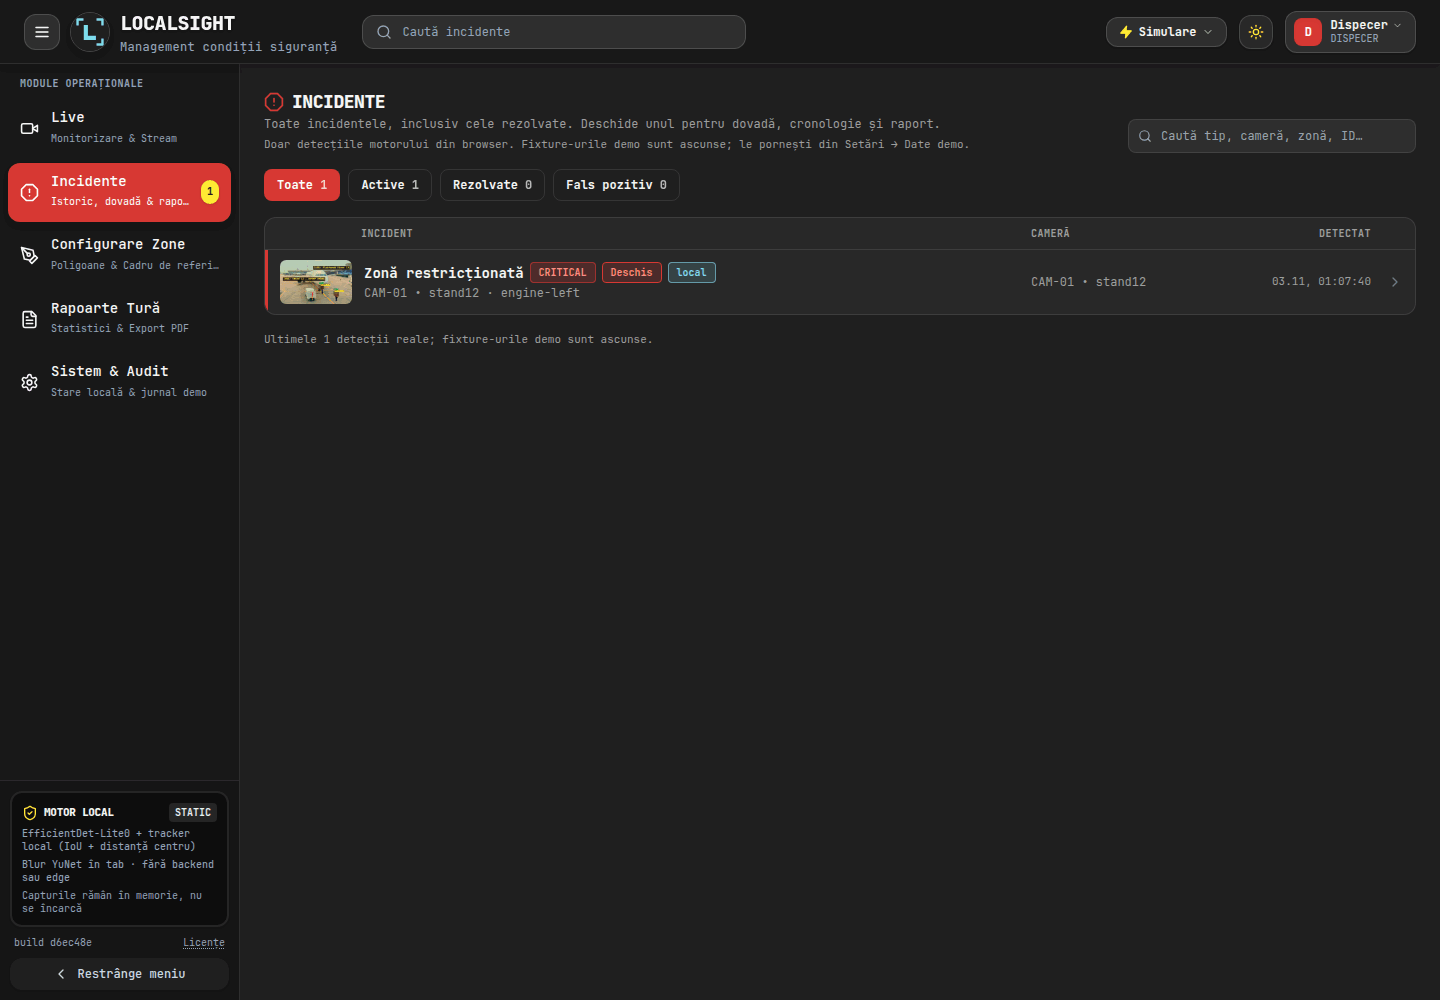
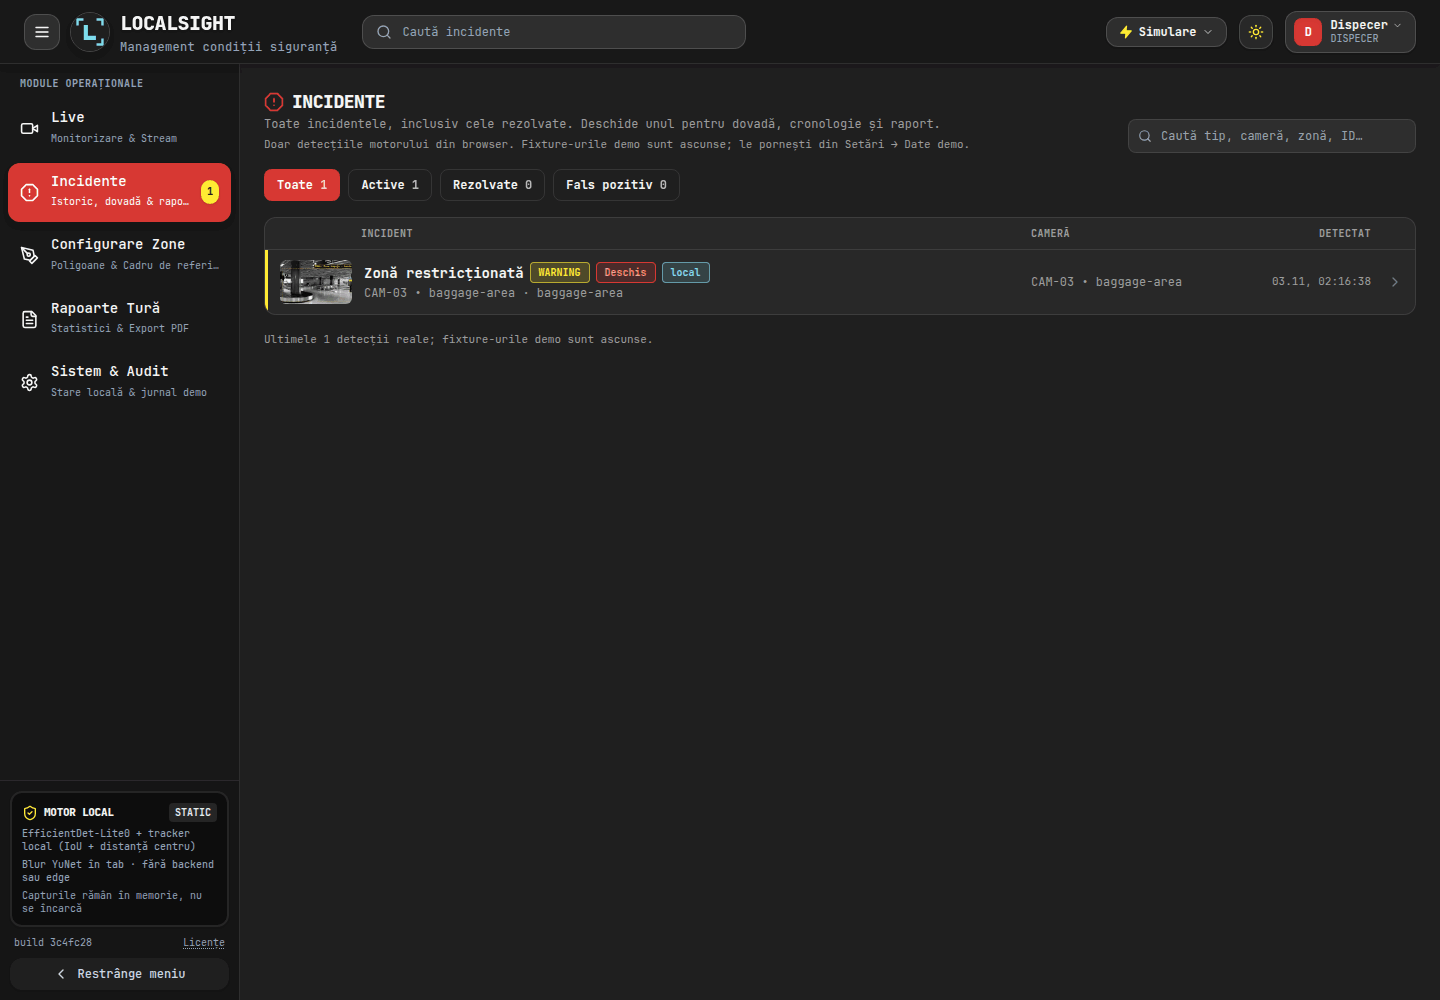
docs: refresh the screenshots and GIF on the generated CAM-03 demo

diff --git a/README.md b/README.md
@@ -9,7 +9,7 @@
 
 [Build public](https://andreisugu.github.io/LocalSight/) · [Documentație](docs/README.md) · [Proveniența modelului](docs/legal/model-provenance.md)
 
-![LocalSight: EfficientDet-Lite0 rulează în browser, cu zone, PPE și coada de triaj](docs/assets/localsight-demo.gif)
+![LocalSight: EfficientDet-Lite0 rulează în browser pe un clip demo generat, cu zonă și coadă de triaj](docs/assets/localsight-demo.gif)
 
 LocalSight duce pipeline-ul de siguranță al proiectului SafeSight în browser: în loc de un
 edge box care trimite evenimente unui backend, tot traseul devine cod de frontend. Pipeline-ul — detecție, tracking, zone, reguli, blur pe fețe, PPE, incidente —
@@ -83,17 +83,17 @@ Toate rutele sunt client-side, definite în `VIEW_PATHS` din
 
 ## Capturi
 
-![Live: motorul EfficientDet-Lite0, zonele pe sol și coada de triaj](docs/assets/localsight-live.png)
-*Live: motorul din browser pe CAM-01, zonele pe sol, coada de triaj și un incident real; fixture-urile demo sunt oprite.*
+![Live: motorul EfficientDet-Lite0 pe CAM-03, zona restricționată și coada de triaj](docs/assets/localsight-live.png)
+*Live: motorul din browser pe CAM-03 (clip demo generat din still licențiat), zona restricționată, coada de triaj și un incident real; fixture-urile demo sunt oprite.*
 
 ![Setări: alegerea modelului EfficientDet-Lite0 sau Lite2](docs/assets/localsight-model.png)
 *Setări: EfficientDet-Lite0 implicit, Lite2 pentru acuratețe; ambele Apache-2.0, fără AGPL.*
 
 ![Incidente: lista completă, cu severitate, status și dovada foto](docs/assets/localsight-incidents.png)
-*Incidente: doar detecția reală, cu severitate, status și dovadă; datele demo sunt ascunse implicit.*
+*Incidente: doar detecția reală de pe clipul generat, cu severitate, status și dovadă; datele demo sunt ascunse implicit.*
 
 ![Configurare zone: poligonul pe canvas și parametrii regulii](docs/assets/localsight-zones.png)
-*Configurare zone: poligonul pe canvas și parametrii regulii.*
+*Configurare zone: poligonul pe canvas și parametrii regulii, pe cadrul de referință generat.*
 
 ![Rapoarte: acoperirea camerei în sesiunea curentă](docs/assets/localsight-coverage.png)
 *Rapoarte: acoperirea se calculează din eșantioanele motorului din acest tab — segmente live, tab ascuns și pauze; fără eșantioane afișează „fără date”.*
